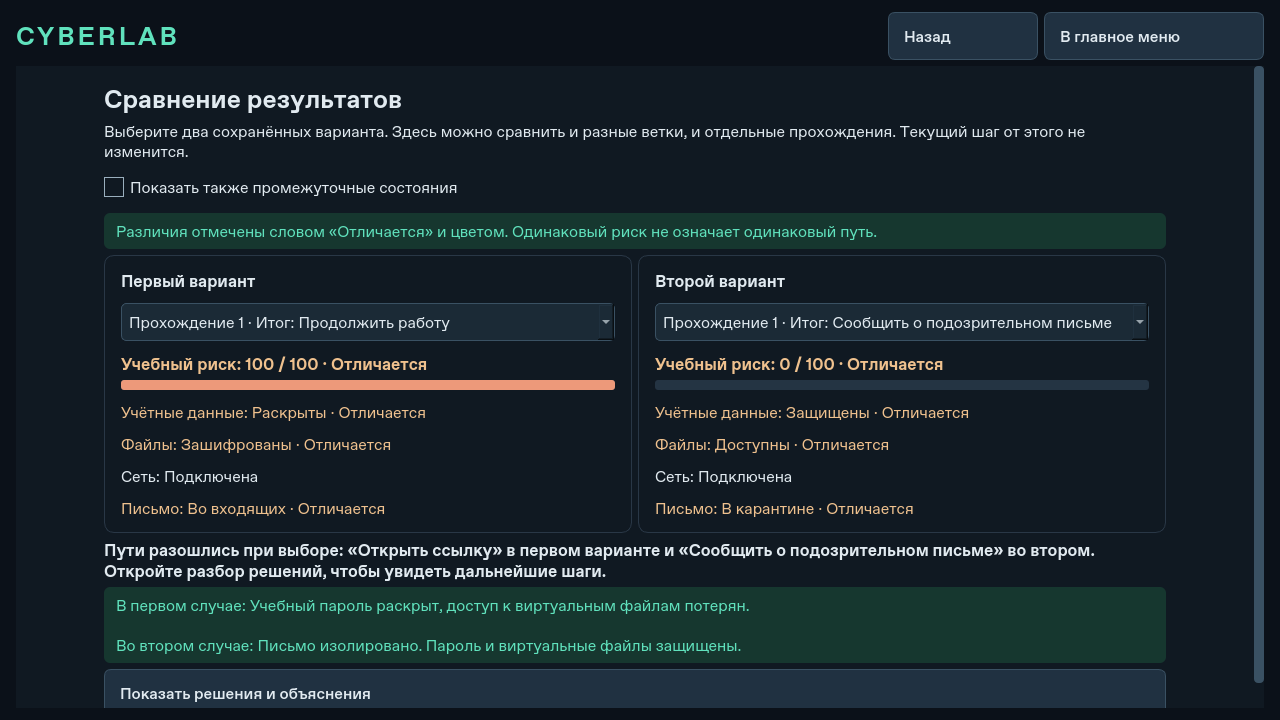
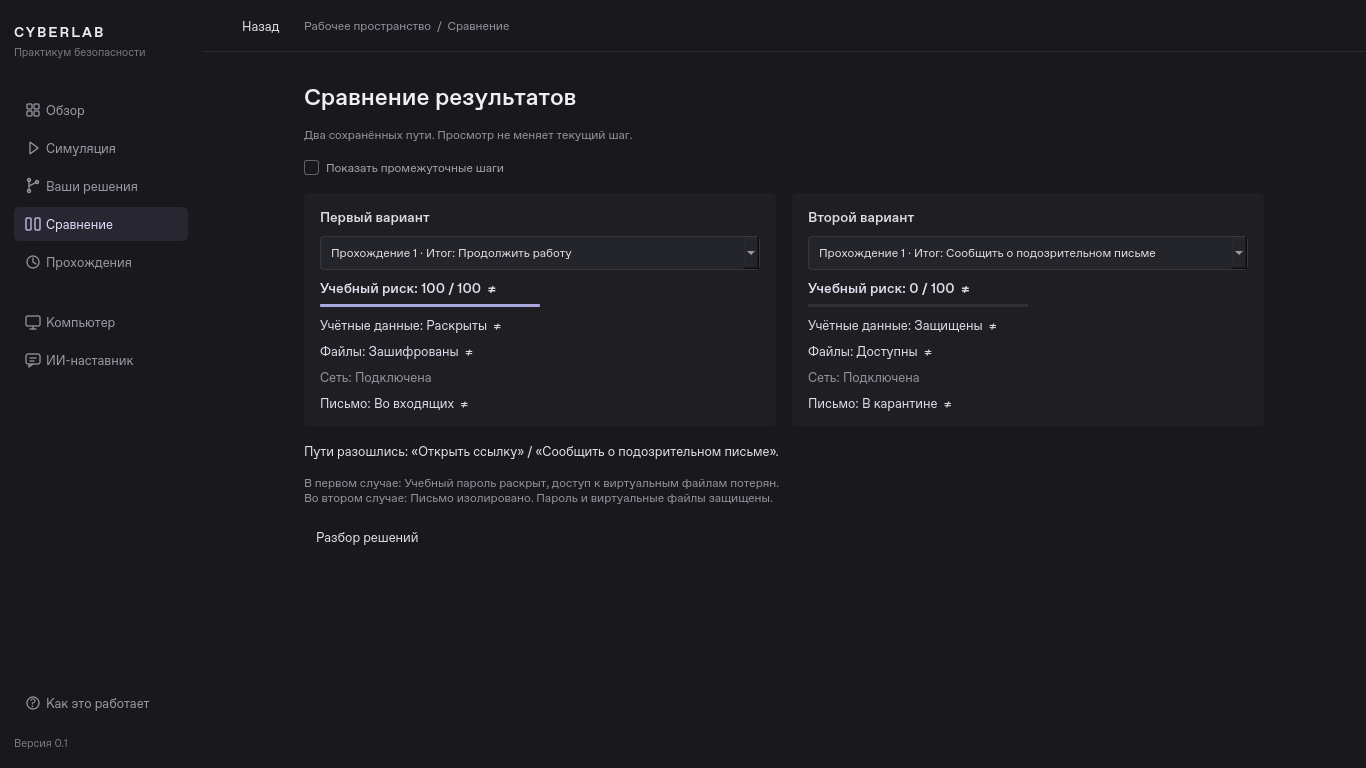
Document the redesigned workspace and add 1366x768 screenshots

diff --git a/STUDY_GUIDE.md b/STUDY_GUIDE.md
@@ -13,24 +13,24 @@ SQLite сохраняет все ветки и текущий шаг между 
 
 ### Как пройти обновлённую версию
 
-Начни с «Начать симуляцию» в меню. Пять шагов обучения покажут пример выбора,
+Начни с «Начать симуляцию» на экране «Обзор». Пять шагов обучения покажут пример выбора,
 его последствие и возврат. Можно нажать «Пропустить обучение»; повторный запуск
 доступен через «Как это работает».
 
 В самой игре порядок такой: **ситуация → выбор → последствие → «Продолжить»**.
 После завершения откроются итоги с разбором каждого твоего решения. «Изменить решение»
-открывает раздел «Ваши решения». Кнопка «Попробовать другой вариант» возвращает
+открывает раздел «Ваши решения». Кнопка «На шаг назад» возвращает
 к ситуации **до последнего действия**. Чтобы изменить более ранний выбор, выдели
-шаг дерева и нажми «Вернуться к выбранному шагу».
+шаг дерева и нажми «Открыть выбранный шаг».
 
-В итогах нажми «Сравнить прохождения»: выбери два результата рядом. Различающиеся
+В итогах нажми «Сравнить результаты»: выбери два результата рядом. Различающиеся
 показатели подписаны, ниже объясняется, в каком месте пути разошлись. Полный разбор
-открывает кнопка «Показать решения и объяснения». Флажок промежуточных состояний
+открывает кнопка «Разбор решений». Флажок промежуточных состояний
 добавляет в списки ещё не завершённые шаги. Если результат пока один, сначала создай
 альтернативную ветку или сравни промежуточные состояния.
 
-«Попробовать снова» создаёт отдельную тренировку. Старые доступны через
-«История прохождений». При следующем запуске сначала появится меню:
+«Заново» создаёт отдельную тренировку. Старые доступны через
+«Прохождения» в боковой панели. При следующем запуске сначала появится обзор:
 нажми «Продолжить прохождение». Компьютер и подсказки открываются по желанию,
 а последствия всегда объясняются на основном экране. На маленьком экране прокручивай
 страницу вниз; длинные строки переносятся автоматически.
@@ -52,7 +52,7 @@ SQLite сохраняет все ветки и текущий шаг между 
 
 Следующий порядок: `storage.py` → `learning.py` → `mentor.py` → `ui_helpers.py` →
 `simulation_pages.py` → `review_pages.py` → `tutorial.py` → `virtual_computer.py` →
-`ui.py` и `styles.py` → `app.py`.
+`navigation.py` → `ui.py` и `styles.py` → `app.py`.
 Рядом с изучаемым модулем открывай соответствующий файл из `tests/`.
 В первый день достаточно первых трёх файлов и запуска одного примера ниже.
 
@@ -71,12 +71,13 @@ SQLite сохраняет все ветки и текущий шаг между 
 | `ai_client.py` | Запрос DeepSeek через SDK, тайм-аут, лимит и локальный ответ при ошибке |
 | `ai_panel.py` | Поле вопроса, ответ, кнопки, режим, токены и фоновый `QThread` |
 | `learning.py` | Восстанавливает путь по родителям, считает оставшиеся решения, готовит учебную оценку |
-| `ui.py` | `MainWindow`: меню, переходы между экранами, открытие тренировок и настройки Qt |
+| `ui.py` | `MainWindow`: обзор, боковая навигация, открытие тренировок и настройки Qt |
+| `navigation.py` | `WorkspaceNavigation`: компактные кнопки разделов и значки Qt, сигнал `navigate` |
 | `simulation_pages.py` | `SituationPage`, `ConsequencePage`, `ResultsPage` и короткая сводка состояния |
 | `review_pages.py` | Дерево «Ваши решения» и две карточки сравнения |
 | `tutorial.py` | Пять коротких уроков и пробная кнопка без изменения SQLite |
 | `virtual_computer.py` | Виджет `VirtualComputer`: почта, файлы, журнал, браузер, вкладка наставника |
-| `ui_helpers.py` | Надпись, панель, прокрутка, кнопка с переносом текста и очистка списка карточек |
+| `ui_helpers.py` | Надписи, компактные кнопки, строки выбора, прокрутка и очистка содержимого |
 | `styles.py` | `STYLESHEET`: цвета, шрифты и оформление виджетов Qt |
 | `app.py` | `main`: аргументы запуска, каталог данных, создание окна и цикл событий |
 | `__main__.py` | Позволяет запустить `python -m cyberlab`, вызывает `main` |
@@ -92,7 +93,8 @@ SQLite сохраняет все ветки и текущий шаг между 
 | `tests/fixtures/history_v1.sql` | Вымышленная старая история: 14 снимков, созданных кодом из `685ba05` |
 | `tests/fixtures/README.md` | Происхождение старой тестовой истории |
 | `tests/test_learning.py` | Проверяет выделение пути из дерева и объяснение настоящих изменений |
-| `tests/test_ui.py` | Нажимает кнопки Qt и проверяет дерево, виртуальный ПК и наставника |
+| `tests/test_ui.py` | Нажимает кнопки Qt и проверяет дерево, виртуальный ПК, наставника и русские меню Qt |
+| `tests/test_navigation.py` | Проверяет разделы слева, сохранность текущего шага и небольшие окна |
 | `tests/test_scaling.py` | Запускает Qt с масштабом 125/150% и проверяет переносы текста |
 | `tests/test_offline.py` | Проверяет отдельный процесс: GUI и SQLite с запретом сетевых операций Python |
 | `tests/test_ai_client.py` | Имитирует HTTP внутри SDK: успех, авторизация, баланс, сеть, тайм-аут |
@@ -112,7 +114,9 @@ SQLite сохраняет все ветки и текущий шаг между 
 | `docs/architecture.md` | Более подробная схема слоёв и формата истории |
 | `docs/validation.md` | Реально выполненные проверки и их ограничения |
 | `docs/cyberlab.png` | Снимок интерфейса, а не часть алгоритма |
-| `docs/comparison.png` | Две альтернативы на новом экране сравнения |
+| `docs/comparison.png` | Две альтернативы на экране сравнения |
+| `docs/simulation.png`, `docs/mentor.png` | Новая симуляция и панель наставника |
+| `docs/interface.md` | Устройство компактного интерфейса и его проверка |
 | `docs/PROJECT_AUDIT.md` | Полнота реализации, исправления CI и фактически выполненные проверки |
 | `docs/ai_integration.md` | Как устроен DeepSeek-наставник и как объяснить его на защите |
 | `scripts/check_qt.py` | Проверяет библиотеки, дисплей и запуск нужного плагина Qt до pytest |
@@ -434,7 +438,7 @@ finally:
 ### Изменить интерфейс
 
 - Цвета и шрифты меняй в `styles.py`, в строке `STYLESHEET` (это правила оформления Qt).
-- Главное меню и переходы — в `ui.py`; тексты пяти уроков — в `tutorial.py`.
+- Обзор и переходы — в `ui.py`; разделы слева — в `navigation.py`; тексты уроков — в `tutorial.py`.
 - Ситуация, последствие и итог — в `simulation_pages.py`, сравнение — в `review_pages.py`.
 - Текст письма и вкладки виртуального ПК — в `virtual_computer.py`.
 - Текст вариантов выбора — в `scenarios.py`, а не в коде создания кнопок.
@@ -444,11 +448,13 @@ finally:
 значение именно для этой кнопки; без него все кнопки цикла могли бы использовать
 последнее решение. Для начала оставь эту связь без изменений.
 
-Для длинных подписей используй `action_button`: внутри кнопки находится `QLabel`
-с переносом строк. `make_scrollable` добавляет вертикальную прокрутку каждому экрану.
+Для обычного действия используй `action_button`: это штатный `QPushButton`, который
+сам учитывает шрифт и масштаб ОС. Строку выбора с названием и пояснением создаёт
+`choice_button`, внутри неё используются `QLabel` с переносом строк.
+`make_scrollable` добавляет вертикальную прокрутку каждому экрану.
 Проверь изменение при 1280×720 и в более узком окне: размеры Qt измеряются в логических
 пикселях и уменьшаются при масштабировании дисплея. Цвет не должен быть единственной
-подсказкой — сохраняй подписи «Риск вырос», «Полезное решение» и «Отличается».
+подсказкой — сохраняй подписи «Риск вырос», «Полезное решение» и знак ≠ в сравнении.
 
 После каждого упражнения из корня проекта выполняй:
 
@@ -502,3 +508,8 @@ uv run --locked ruff format --check .
 Объясни связь `parent_id`, затем открой пять разобранных функций. Перезапусти программу
 и покажи восстановление. Говори отдельно о том, что реализовано сейчас, и о планах.
 Лучше уверенно объяснить один настоящий алгоритм, чем перечислять будущие возможности.
+
+Боковая панель посылает `navigate` с именем раздела. `MainWindow._navigate`
+выбирает прежний обработчик из словаря; переключение разделов не создаёт решение
+в SQLite. Общие ссылки на компьютер, сравнение и ИИ у страниц ведут к одному
+виджету навигации, вместо нескольких одинаковых кнопок.

diff --git a/README.md b/README.md
@@ -7,7 +7,13 @@
 Главная возможность: вернуться к любому решению, сделать другой выбор и сравнить
 последствия. Старые ветки остаются в истории, в том числе после перезапуска.
 
-![CYBERLAB: последовательное прохождение и понятные последствия](docs/cyberlab.png)
+![CYBERLAB: компактное рабочее пространство](docs/cyberlab.png)
+
+[Симуляция](docs/simulation.png) · [Сравнение](docs/comparison.png) · [ИИ-наставник](docs/mentor.png)
+
+В боковой панели находятся симуляция, решения, сравнение, сохранённые прохождения,
+компьютер и наставник. На основном экране остаётся текущая задача.
+Описание нового интерфейса и его проверок — [docs/interface.md](docs/interface.md).
 
 Для изучения исходников начни со [STUDY_GUIDE.md](STUDY_GUIDE.md): там есть порядок
 чтения, разбор пяти функций, упражнения и десять вопросов для защиты.
@@ -40,7 +46,7 @@ sudo apt-get install libegl1 libgl1 libopengl0 libfontconfig1 libdbus-1-3 \
 
 ## Первая тренировка
 
-1. В главном меню нажмите **«Начать симуляцию»**. При первом старте появятся пять
+1. На экране «Обзор» нажмите **«Начать симуляцию»**. При первом старте появятся пять
    коротких шагов обучения с пробной кнопкой. Их можно пропустить, а затем повторить
    через «Как это работает». Пример обучения не записывает решения в историю.
 2. Читайте ситуацию и выбирайте действие. После каждого выбора появится отдельный
@@ -49,20 +55,20 @@ sudo apt-get install libegl1 libgl1 libopengl0 libfontconfig1 libdbus-1-3 \
 3. Для проверки опасного пути выберите «Открыть ссылку» → «Отправить учебный пароль» →
    «Продолжить работу», каждый раз читая последствие. В модели станут недоступны файлы.
 4. В итогах нажмите **«Изменить решение»**. Раздел «Ваши решения» позволяет вернуться
-   на один выбор кнопкой «Попробовать другой вариант», к любому выбранному шагу дерева
+   на один выбор кнопкой «На шаг назад», к любому выбранному шагу дерева
    или к началу сценария. Прежние ветки остаются.
 5. Вернитесь к началу и выберите «Проверить письмо» → «Сообщить о фишинге».
-   После завершения нажмите **«Сравнить прохождения»**: два результата показываются
-   рядом, различия отмечены цветом и подписью. Ниже — место расхождения и краткий вывод;
+   После завершения нажмите **«Сравнить результаты»** или откройте «Сравнение» слева: два результата показываются
+   рядом, различия отмечены знаком ≠. Ниже — место расхождения и краткий вывод;
    полный разбор решений открывается по желанию.
-6. Флажок «Показать также промежуточные состояния» позволяет сравнить любые снимки.
-   Сравнение доступно и до итога — через «Ваши решения». Оно не перемещает текущий шаг.
-7. «Попробовать снова» создаёт новую тренировку, сохраняя предыдущие. В главном меню
-   есть **«История прохождений»** и **«Продолжить прохождение»**. После перезапуска
+6. Флажок «Показать промежуточные шаги» позволяет сравнить любые снимки.
+   Сравнение доступно и до итога — из боковой панели. Оно не перемещает текущий шаг.
+7. «Заново» создаёт новую тренировку, сохраняя предыдущие. Сохранения доступны
+   в разделе **«Прохождения»** слева; на обзоре есть **«Продолжить прохождение»**. После перезапуска
    восстанавливаются выбранная тренировка, её шаг и даже непрочитанное последствие.
 
 На виртуальном ПК есть почта, просмотр содержимого файлов, журнал, макет браузера
-и вкладка «Наставник». Компьютер открывается отдельной кнопкой: вкладки объясняют
+и вкладка «Наставник». Компьютер открывается из боковой панели: вкладки объясняют
 своё назначение, изменившиеся отмечены точкой и цветом. Последствия видны и без вкладок.
 Локальный наставник объясняет текущий снимок по правилам. Отдельная панель
 **«ИИ-наставник»** подключает DeepSeek по запросу и автоматически возвращается
@@ -150,7 +156,8 @@ src/cyberlab/
   ai_client.py   DeepSeek API через OpenAI SDK и возврат к локальным правилам
   ai_panel.py    Панель наставника и фоновый поток Qt
   learning.py    Путь снимка, прогресс и учебный разбор решений
-  ui.py          Главное меню, навигация, открытие сохранённых тренировок
+  ui.py          Обзор, переключение экранов, открытие сохранённых тренировок
+  navigation.py  Боковая панель и значки, нарисованные средствами Qt
   simulation_pages.py  Ситуация, последствие, экран итогов
   review_pages.py      Ваши решения и сравнение двух вариантов
   tutorial.py          Пять шагов интерактивного обучения

diff --git a/docs/interface.md b/docs/interface.md
@@ -1,0 +1,78 @@
+# Компактное рабочее пространство CYBERLAB
+
+Переработка визуального интерфейса от 27 октября 2026 года. Основа — PySide6;
+новых зависимостей нет. Сценарий, алгоритмы риска, SQLite, снимки, ветвление,
+сравнение и клиент DeepSeek сохранены.
+
+## Что изменилось
+
+- Постоянная боковая навигация: обзор, симуляция, решения, сравнение, прохождения,
+  компьютер и ИИ-наставник. Обучение доступно снизу панели.
+- Обзор показывает один доступный сценарий и компактные действия начала/продолжения.
+  История, инструменты и помощь не дублируются большими кнопками в содержимом.
+- Варианты выбора — строки списка с номером, короткой подписью и пояснением.
+- Последствие содержит действие, событие, причину и изменение риска. Повторяющиеся
+  сводки и инструкции «нажмите кнопку» убраны.
+- Результаты — небольшой итог и список решений с тонкими разделителями.
+- Сравнение — два компактных столбца, знак ≠ у различающихся показателей и
+  дополнительный разбор по запросу. На узком окне столбцы располагаются вертикально.
+- ИИ-наставник оформлен как отдельный рабочий раздел: ответ, три коротких действия,
+  поле вопроса и одна основная кнопка. Запросы по-прежнему отправляются только по нажатию.
+- Виртуальный компьютер сохраняет все пять вкладок, файлы, письмо, журнал и уведомления.
+
+Тема графитовая, один акцент — приглушённый лавандовый. Основной текст 13 px,
+заголовки 24 px, кнопки обычно 32 px. Нет градиентов, свечений, эмодзи и толстых рамок.
+Боковая панель имеет ширину 202 px; при ширине окна менее 980 px остаются значки
+в полосе 60 px. Имена разделов сохраняются в русских подсказках и доступных именах.
+Стандартные контекстные меню Qt также переведены на русский через `qtbase_ru`.
+
+## Из каких файлов состоит интерфейс
+
+| Файл | Назначение |
+| --- | --- |
+| `navigation.py` | Боковая панель; значки рисуются `QPainter`, без сторонних наборов |
+| `ui.py` | Оболочка, обзор, маршрутизация в существующие обработчики |
+| `ui_helpers.py` | Компактные кнопки, текстовые действия и строки выбора |
+| `styles.py` | Цвета, размеры, состояния фокуса и выделение |
+| `simulation_pages.py` | Ситуация, последствие, итог и короткая сводка риска |
+| `review_pages.py` | Дерево решений и сравнение |
+| `ai_panel.py` | Компоновка наставника; логика запросов и поток сохранены |
+| `virtual_computer.py`, `tutorial.py` | Учебный ПК и короткое знакомство |
+| `app.py` | Загрузка русского каталога стандартных переводов Qt |
+
+Общие действия каждой страницы ссылаются на один виджет боковой панели.
+Возврат к разделу «Симуляция» открывает текущий снимок, включая ещё не прочитанное
+последствие, и не создаёт нового решения. Переход в ИИ не делает платный запрос.
+
+## Реальные снимки 1366×768
+
+![Обзор](cyberlab.png)
+
+![Симуляция](simulation.png)
+
+![Сравнение](comparison.png)
+
+![Наставник](mentor.png)
+
+Это снимки работающего Qt-приложения с временной учебной историей. Для каждого
+из десяти экранов проверены размер окна и отсутствие горизонтального выхода
+за viewport. При 1366×768 все основные экраны поместились без вертикальной прокрутки.
+Длинные истории и ответы по-прежнему прокручиваются.
+
+## Проверки
+
+До изменений прошли 84 существующих теста. После перестройки прошли **88 тестов**:
+все прежние и четыре новых случая навигации. Проверяются опасный/безопасный путь,
+возврат, сравнение, старые SQLite v1 и перезапуск, ИИ без реальных платных запросов,
+сохранение активного снимка при переходах, узкое окно и русский перевод меню Qt.
+
+Локально выполнены оба режима: Qt `offscreen` и нативный `xcb` через Xvfb.
+Также собраны sdist и wheel; wheel установлен в отдельный venv без сети и
+прошёл запуск, опасный путь, возврат, безопасную ветку, сравнение и восстановление SQLite.
+Ruff check, format --check и `git diff --check` выполнены.
+
+Проверки точных размеров 1366×768 и 1280×720, а также 640×420 и масштабов
+125/150% сохранены. Нативные тесты учитывают доступную рабочую область ОС.
+В этой облачной среде визуально просмотрены снимки Linux. Реальные Windows 10/11
+и ALT Образование вручную не запускались. Результаты удалённого CI отмечаются
+отдельно после фактического завершения заданий.

diff --git a/docs/ai_integration.md b/docs/ai_integration.md
@@ -8,15 +8,15 @@
 При выключенном интернете сценарий и сравнение продолжают работать.
 
 В обычной вкладке «Наставник» виртуального компьютера остаются локальные правила.
-Отдельная панель «ИИ-наставник» доступна из меню, ситуации, последствия, итогов
-и сравнения. Нажатие этой кнопки **не отправляет запрос**.
+Отдельная панель «ИИ-наставник» открывается слева из любого раздела.
+Переход в неё **не отправляет запрос**.
 
 ## Что делает панель
 
 - «Спросить ИИ» отвечает на вопрос по кибербезопасности.
-- «Объяснить моё решение» разбирает последнее уже принятое действие.
-- «Проанализировать ошибки» разбирает текущий путь и предлагает безопасные привычки.
-- «Сравнить выбранные варианты» объясняет различия двух сохранённых путей. Для этого
+- «Объяснить выбор» разбирает последнее уже принятое действие.
+- «Разобрать ошибки» разбирает текущий путь и предлагает безопасные привычки.
+- «Сравнить варианты» объясняет различия двух сохранённых путей. Для этого
   сначала откройте сравнение, выберите варианты и перейдите оттуда в ИИ-наставника.
 
 После успешного ответа показан режим **«DeepSeek AI — онлайн»**. При отсутствии ключа

diff --git a/docs/architecture.md b/docs/architecture.md
@@ -25,8 +25,10 @@ flowchart LR
 
 ## Небольшие модули интерфейса и наставника
 
-`ui.py` содержит главное меню, навигацию через `QStackedWidget` и открытие старых
-тренировок. `simulation_pages.py` отвечает за ситуацию, последствие и итог;
+`ui.py` содержит обзор, навигацию через `QStackedWidget` и открытие старых
+тренировок. `navigation.py` рисует компактную боковую панель и значки через Qt,
+посылая имена выбранных разделов сигналом `navigate`. На узком окне остаются значки
+с русскими подсказками и доступными именами. `simulation_pages.py` отвечает за ситуацию, последствие и итог;
 `review_pages.py` — за дерево и сравнение, `tutorial.py` — за пять шагов обучения.
 Виртуальный ПК находится в `virtual_computer.py`, оформление — в `styles.py`, общие
 помощники для создания виджетов — в `ui_helpers.py`. Это разделение обычных файлов,

diff --git a/DEVELOPMENT.md b/DEVELOPMENT.md
@@ -14,7 +14,7 @@
 
 | Часть | Реальное состояние |
 | --- | --- |
-| Главное окно | Меню, продолжение, история тренировок; один основной экран за раз |
+| Главное окно | Компактная графитовая оболочка, боковая навигация, обзор и отдельные разделы |
 | Прохождение | Ситуация → выбор → отдельное последствие с причиной и изменением риска → продолжение |
 | Обучение | Пять шагов с пробной кнопкой, пропуск и повтор из меню |
 | Итоги | Отдельный экран: полезные и рискованные решения, причины и варианты изменения |
